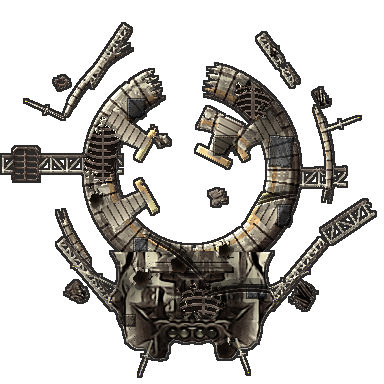
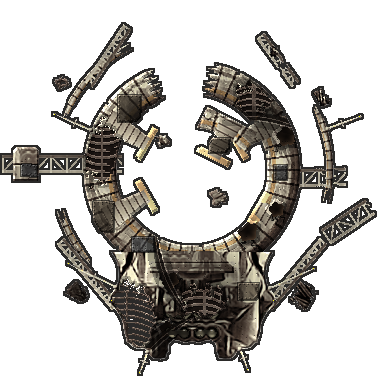
The Purifier escorts round 5c: masts rooted on the hull, broad engine sterns, straight carrier thrusters
- Every mast, whip, dish, spike and fin now starts on a hull edge pixel (masts slid along their direction onto the
  hull's outline, taken before any mast goes on; the edge dressing only on solid stretches of that outline), with
  a small round mount, and masts / dressing are kept out of the battle damage (no chipped-off roots).
- Frigate, destroyer, cruiser and troop transport end in a broad flared engine block (the aft rows of a wide stock
  hull with its nozzles and thruster marks, upper corners cut at an angle) wider than the hull ahead: 20 / 20 / 40 /
  53 thruster px (the troop transport had 2).
- The banana carrier unchanged except for a straight engine block over its stern, so its thrusters point straight
  aft instead of along the bend.

Checks: in-game screenshots (headless Chromium, ANGLE/Vulkan), test:fast 439 files / 4564 tests passed, repin
--check 0 changes; detail metric: every escort above the stock median.

Claude-Session: https://claude.ai/code/session_0163BYLbDKYohHLP1KWpaU5H

diff --git a/game/scripts/purifier-ships.py b/game/scripts/purifier-ships.py
@@ -20,20 +20,24 @@ Python 3 with numpy and Pillow only. Deterministic (fixed seeds per output).
 
 Per output frame (bow up, as the stock frames; square canvas with a margin for the masts):
 1. Assembly, at SS x the output resolution: whole stock hulls layered back to front (the hidden ones' engine marks
-   dropped: thrusters only where open space lies aft), each casting a soft contact shadow on what is below; the
-   stock pieces carry their levelled shading, the AncientHelpers ones their native colour, their lights as a glow
-   channel and their thruster (pure blue) / light (pure yellow) marker pixels as points, mapped through each
-   placement. The escorts are long and lean, their hulls meshed end to end: a frigate of a needle bow hull run into
-   a longer main hull; a destroyer of a needle bow, a long main hull and a slim engine hull; a cruiser of a pointed
-   bow hull, a broad main hull and a tapering stern hull; the capital ship, the longest, of a needle bow, two heavy
-   hulls and a wide engine hull with two slim hulls along its midsection as sponsons; a troop transport of a slim
-   bow hull run into the troop hull; and the carrier of three hulls end to end with the angled flight deck (landing
-   lanes, chevrons, landing lights, hangar lifts) fused along its port flank, the whole bent into a banana curve
-   (bend()). Then masts and the edge dressing: whips and sensor masts (single and in
-   fanned clusters), short spikes, small dishes on stalks, fins, small turrets, vents and pipes planted round the
-   outline pointing outward. Some tips and beads (at most 18 per frame, under the scan cap of 20) are pure-yellow
-   nav-light markers, so they blink at runtime as the planet destroyer's own spike lights do. The dock and outpost:
-   the Shakturi station bodies, the cradle ring and clamp arms, trusses and drifting debris, with masts.
+   dropped: thrusters only where open space lies aft), each casting a soft contact shadow on what is below; the stock
+   pieces carry their levelled shading, the AncientHelpers ones their native colour, their lights as a glow channel
+   and their thruster (pure blue) / light (pure yellow) marker pixels as points, mapped through each placement. The
+   escorts are long and lean, their hulls meshed end to end: a frigate of a needle bow hull run into a longer main
+   hull; a destroyer of a needle bow, a long main hull and a slim engine hull; a cruiser of a pointed bow hull, a
+   broad main hull and a tapering stern hull; the capital ship, the longest, of a needle bow, two heavy hulls and a
+   wide engine hull with two slim hulls along its midsection as sponsons; a troop transport of a slim bow hull run
+   into the troop hull; the four smaller ones each end in a broad flared engine block (the aft rows of a wide stock
+   hull with its nozzles, stern(), its upper corners cut at an angle) wider than the hull ahead; and the carrier of
+   three hulls end to end with the angled flight deck (landing lanes, chevrons, landing lights, hangar lifts) fused
+   along its port flank, the whole bent into a banana curve (bend()), a straight engine block fused over its stern so
+   the thrusters point straight aft. Then masts and the edge dressing: whips and sensor masts (single and in fanned
+   clusters), short spikes, small dishes on stalks, fins, small turrets, vents and pipes planted round the outline
+   pointing outward, every one rooted on a hull edge pixel (masts are slid along their direction onto the hull's
+   outline, taken before any mast goes on) with a small mount, and kept out of the battle damage. Some tips and beads
+   (at most 18 per frame, under the scan cap of 20) are pure-yellow nav-light markers, so they blink at runtime as
+   the planet destroyer's own spike lights do. The dock and outpost: the Shakturi station bodies, the cradle ring and
+   clamp arms, trusses and drifting debris, with masts.
 2. Paint: the stock AncientHelpers pieces keep their own colour at the new value (a little toward the destroyer's
    ramp); everything else is gradient-mapped onto the planet destroyer's metal ramp (the median colour of its pixels
    per luminance band: silver, champagne, warm dark steel, a touch warmed as its champagne plates); guns in its dark
@@ -1220,8 +1224,12 @@ def build(root, name, rng):
         """Break the outline up: walk the hull edge and plant, pointing outward (jittered), whips and sensor masts
         (some in fanned clusters, a few lit), short spikes, small dishes on stalks, small fins, turrets, vents and
         pipes poking out past the edge; none over the engines' thruster marks or within `avoid` (x, y, r layout)."""
-        solid = hm > 0.5
-        edge = solid & ~(shift(solid, SS, 0) & shift(solid, -SS, 0) & shift(solid, 0, SS) & shift(solid, 0, -SS))
+        solid = hull_mask(c)  # only the hull itself: nothing grows off another mast
+        hm = solid.astype(np.float64)
+        edge = solid & ~(shift(solid, 1, 0) & shift(solid, -1, 0) & shift(solid, 0, 1) & shift(solid, 0, -1))
+        edge &= depth_inside(solid, 3) >= 1
+        # only solid stretches of edge (not the tip of a thin spur): the pixel has hull all round within 2 px inward
+        edge &= fblur(solid.astype(np.float64), 2.0 * SS) > 0.3
         thr = [(mx, my) for (mx, my, k_) in c.marks if k_ == 1]
         ys, xs = np.nonzero(edge)
         keep = np.ones(len(ys), bool)
@@ -1246,12 +1254,13 @@ def build(root, name, rng):
                     blocked = True
             if blocked:
                 continue
-            ang = math.degrees(math.atan2(-nx_, -ny_)) + rng.uniform(-28, 28)
+            ang = math.degrees(math.atan2(-nx_, -ny_)) + rng.uniform(-18, 18)
             x, y = px / c.k - c.pad, py / c.k - c.pad
             kind = rng.choice(['whip', 'whip', 'whip', 'cluster', 'spike', 'spike', 'dish', 'fin', 'turret', 'vent', 'pipe'])
 
             def plant(piece, out, a, **k):
                 th = math.radians(a)
+                k.setdefault('mat', 'thin')
                 c.put(piece, x - math.sin(th) * out, y - math.cos(th) * out, rot=a, shadow=0.25, **k)
 
             if kind in ('whip', 'cluster'):
@@ -1261,22 +1270,26 @@ def build(root, name, rng):
                     on = lit > 0 and rng.random() < 0.35
                     lit -= int(on)
                     plant(antenna(ln, w=rng.uniform(1.4, 2.2), bars=(rng.uniform(0.3, 0.7),) if ln > 18 * k else (),
-                                  rings=(0.6,), light=on), ln / 2 - 1, a)
+                                  rings=(0.6,), light=on), ln / 2 - 1.5, a)
+                mount(c, x, y, 1.5 + 0.5 * (kind == 'cluster'))
             elif kind == 'spike':
                 ln = int(k * rng.uniform(6, 14))
-                plant(antenna(ln, w=3.2 * k, bars=(), rings=(0.5,), light=False), ln / 2 - 1, ang)
+                plant(antenna(ln, w=3.2 * k, bars=(), rings=(0.5,), light=False), ln / 2 - 1.5, ang)
+                mount(c, x, y, 1.6)
             elif kind == 'dish':
                 ln = int(k * rng.uniform(6, 12))
-                plant(antenna(ln, w=2.0, bars=(), rings=(), light=False), ln / 2, ang)
-                plant(dish(k * rng.uniform(3.5, 5.5)), ln, ang, marks=False)
+                plant(antenna(ln, w=2.0, bars=(), rings=(), light=False), ln / 2 - 1.5, ang)
+                plant(dish(k * rng.uniform(3.5, 5.5)), ln - 1.5, ang, marks=False)
+                mount(c, x, y, 1.6)
             elif kind == 'fin':
-                plant(plate(max(3, int(k * rng.uniform(4, 7))), int(k * rng.uniform(9, 16)), chamfer=0.6, taper=0.6, seams=()), 3 * k, ang,
+                fh = int(k * rng.uniform(9, 16))
+                plant(plate(max(3, int(k * rng.uniform(4, 7))), fh, chamfer=0.6, taper=0.6, seams=()), fh / 2 - 2, ang,
                       edge=0.8)
             elif kind == 'turret':
-                plant(turret(k * rng.uniform(3.5, 5.5)), 1.5 * k, ang, marks=False, edge=0.6)
+                plant(turret(k * rng.uniform(3.5, 5.5)), 0.5, ang, marks=False, edge=0.6)
             else:
                 g = greeble('vent' if kind == 'vent' else 'pipe', SS, rng)
-                plant(g, 2, ang + 90 if kind == 'pipe' else ang, marks=False, edge=0.8)
+                plant(g, 1, ang + 90 if kind == 'pipe' else ang, marks=False, edge=0.8)
 
     def greebles(c, hm, n, avoid=None):
         """Small detail scattered over the hull (vents, hatches, small domes, pipe runs, rivet rows), crisp."""
@@ -1292,14 +1305,68 @@ def build(root, name, rng):
             c.put(g, px / c.k - c.pad, py / c.k - c.pad, 1.0, rot=int(rng.choice([0, 90, 180, 270])), shadow=0.4, clip=hm,
                   edge=0.8, marks=False)
 
+    def hull_mask(c):
+        """The hull as it stands before any mast or dressing goes on (taken at the first call): masts root on it."""
+        if getattr(c, 'hullm', None) is None:
+            c.hullm = c.A > 0.5
+        return c.hullm
+
+    def root_on_hull(c, x, y, ang, reach=40):
+        """Where a mast pointing `ang` leaves the hull near (x, y) (layout px): from inside, the last hull pixel
+        outward along it; from outside, the first hull pixel back along it; None if there is no hull within reach."""
+        hm = hull_mask(c)
+        th = math.radians(ang)
+        ux, uy = -math.sin(th), -math.cos(th)
+        inside = lambda px, py: (0 <= int(py) < c.h and 0 <= int(px) < c.w and hm[int(py), int(px)])  # noqa: E731
+        px, py = (x + c.pad) * c.k, (y + c.pad) * c.k
+        step = 0.5
+        if inside(px, py):
+            while inside(px + ux * step, py + uy * step):
+                px, py = px + ux * step, py + uy * step
+        else:
+            for _ in range(int(reach * c.k / step)):
+                px, py = px - ux * step, py - uy * step
+                if inside(px, py):
+                    break
+            else:
+                return None
+        return px / c.k - c.pad, py / c.k - c.pad
+
+    def mount(c, x, y, r):
+        """The small round base where a mast meets the hull."""
+        c.put(dome(r), x, y, shadow=0.3, marks=False, mat='thin')
+
     def mast(c, x, y, length, ang, **k):
-        """An antenna rooted at (x, y), `ang` degrees from straight ahead (positive: to port; past 90: swept back)."""
+        """An antenna pointing `ang` degrees from straight ahead (positive: to port; past 90: swept back), rooted on
+        the hull edge nearest (x, y) along that direction, on a small mount."""
+        r = root_on_hull(c, x, y, ang)
+        if r is None:
+            return
+        x, y = r
         th = math.radians(ang)
         length = int(length * (1.3 if name.startswith('base') else 0.8))  # the escorts' hulls are at half scale
         k.setdefault('w', 2.4 if name.startswith('base') else 1.8)
-        c.put(antenna(length, **k), x - math.sin(th) * length / 2, y - math.cos(th) * length / 2, rot=ang, shadow=0.25)
+        sink = 1.5
+        c.put(antenna(length, **k), x - math.sin(th) * (length / 2 - sink), y - math.cos(th) * (length / 2 - sink), rot=ang,
+              shadow=0.25, mat='thin')
+        mount(c, x, y, 2.6 if name.startswith('base') else 1.9)
 
     H = lambda fam, f, **k: Piece.load(root, f, kit=fam, **k)  # noqa: E731  # a whole stock hull
+
+    def stern(c, fam, f, rows, x, scale=0.5, top=0.5):
+        """A broad engine block: the aft `rows` px of a stock hull (its nozzles and thruster marks), its upper corners
+        cut away at an angle (a flared section, `top` of its width at the top edge, full width halfway down), fused on
+        at the stern so it reaches a little past the hull's last pixel there: wider than the hull ahead of it."""
+        path = os.path.join(root, '..', fam, f + '.png')
+        bb = Image.open(path).getbbox()
+        src = Piece.load(root, f, (bb[0], bb[3] - rows, bb[2], bb[3]), kit=fam)
+        h_, w_ = src.A.shape
+        yy, xx = np.mgrid[0:h_, 0:w_].astype(np.float64) + 0.5
+        half = w_ / 2 * (top + (1 - top) * np.clip(yy / (h_ * 0.5), 0, 1))
+        pc = Piece(src.L, src.A * (np.abs(xx - w_ / 2) <= half), src.G, src.mats, src.marks)
+        col = c.A[:, int((x - 12 + c.pad) * c.k):int((x + 12 + c.pad) * c.k)] > 0.5
+        last = np.nonzero(col.any(1))[0].max() / c.k - c.pad
+        c.put(pc, x, last + 3 - h_ * scale / 2, scale, shadow=0.55)
 
     def dress(c, n, avoid=()):
         edge_dress(c, (c.A > 0.5).astype(np.float64), n, lights=18, avoid=avoid, k=0.6)
@@ -1309,6 +1376,7 @@ def build(root, name, rng):
         c = Canvas(190, pad=20, z=1.25)
         c.put(H('family14', 'frigate'), 95, 120, 0.5, shadow=0)
         c.put(H('family25', 'frigate'), 95, 52, 0.5, shadow=0.55)
+        stern(c, 'family23', 'destroyer', 64, 95, 0.55, top=0.4)
         mast(c, 95, 14, 18, 0, beads=(0.5,))
         mast(c, 72, 140, 22, 70)
         mast(c, 118, 150, 20, -110)
@@ -1320,6 +1388,7 @@ def build(root, name, rng):
         c.put(H('family7', 'destroyer'), 130, 206, 0.5, shadow=0)
         c.put(H('family24', 'destroyer'), 130, 132, 0.5, shadow=0.5)
         c.put(H('family25', 'destroyer'), 130, 54, 0.5, shadow=0.55)
+        stern(c, 'family22', 'capitalship', 70, 130, 0.62)
         mast(c, 130, 12, 20, 0, beads=(0.5,))
         mast(c, 106, 120, 26, 60)
         mast(c, 154, 170, 24, -120)
@@ -1331,6 +1400,7 @@ def build(root, name, rng):
         c.put(H('family14', 'cruiser'), 160, 250, 0.5, shadow=0)
         c.put(H('family22', 'cruiser'), 160, 152, 0.5, shadow=0.5)
         c.put(H('family25', 'cruiser'), 160, 62, 0.5, shadow=0.55)
+        stern(c, 'family11', 'capitalship', 74, 160, 0.62)
         mast(c, 160, 14, 24, 0, beads=(0.5,))
         mast(c, 124, 150, 30, 64)
         mast(c, 196, 150, 30, -64)
@@ -1366,6 +1436,13 @@ def build(root, name, rng):
         c.put(H('family14', 'destroyer'), 104, 70, 0.4, shadow=0.4)
         c.put(H('family12', 'carrier'), 104, 136, 0.5, shadow=0.6)
         bend(c, 150, 100, 138)
+        # the bend turned the stern nozzles sideways: a straight engine section (the same stern hull's nozzles) fused
+        # on over them, pointing straight aft, carries the thrusters
+        c.marks = [m_ for m_ in c.marks if m_[2] != 1]
+        rows_ = np.nonzero((c.A > 0.5).any(1))[0]
+        low = (c.A[rows_.max() - int(6 * c.k):rows_.max() + 1] > 0.5).any(0)
+        sx_ = np.nonzero(low)[0].mean() / c.k - c.pad
+        stern(c, 'family25', 'carrier', 46, sx_, 0.46, top=0.7)
         mast(c, 124, 30, 24, -10, beads=(0.5,))
         mast(c, 132, 120, 30, -62)
         mast(c, 140, 232, 26, -140)
@@ -1376,6 +1453,7 @@ def build(root, name, rng):
         c = Canvas(210, pad=20, z=1.25)
         c.put(H('family21', 'trooptransport'), 105, 138, 0.5, shadow=0)
         c.put(H('family25', 'trooptransport'), 105, 56, 0.5, shadow=0.55)
+        stern(c, 'family9', 'capitalship', 62, 105, 0.62, top=0.4)
         mast(c, 105, 12, 18, 0, beads=(0.5,))
         mast(c, 78, 140, 22, 70)
         mast(c, 132, 150, 22, -110)
@@ -1422,8 +1500,8 @@ def build(root, name, rng):
                               (310, 86, 22, 210), (50, 70, 20, 300), (262, 40, 14, 80), (196, 104, 12, 140)):
             c.put(debris(rng, root, sz), x, y, rot=r, shadow=0, marks=False, gain=0.85)
         # masts with lights off the forge block and the ring (as the Purifier's spikes)
-        for (x, y, ln, a) in ((cx - 70, cy + 120, 44, 64), (cx + 70, cy + 122, 40, -66), (cx - 40, cy + 170, 30, 160),
-                              (cx + 44, cy + 168, 30, -160), (cx - 128, cy - 52, 34, 66), (cx + 132, cy - 40, 30, -70)):
+        for (x, y, ln, a) in ((cx - 70, cy + 120, 44, 64), (cx + 70, cy + 122, 40, -66), (cx - 40, cy + 170, 20, 160),
+                              (cx + 44, cy + 168, 20, -160), (cx - 128, cy - 52, 34, 66), (cx + 132, cy - 40, 30, -70)):
             mast(c, x, y, ln, a)
         return c
     raise KeyError(name)
@@ -1476,7 +1554,7 @@ def finish(name, c, xs, cols, rng):
     mk = np.zeros((h, w), bool)
     for (x, y) in marks:
         mk[y, x] = True
-    protect = dilate(mk, 3)
+    protect = dilate(mk, 3) | dilate(M['thin'] > 0.4, 2)  # the markers and the masts / dressing (never chipped off)
     dm = Damage(name, out, alpha, v, M, protect, rng)
     dm.ramp = (xs, cols)
     npatch, nsc, nmiss, nbr, ncr, ngo, nmel, nch = WEAR[name]

diff --git a/game/docs/release-notes.md b/game/docs/release-notes.md
@@ -4,7 +4,7 @@ Notes for the next release, to copy into the GitHub release (RELEASING.md step 2
 
 ## Unreleased
 
-- **The Purifier: war-forged escorts and a ruined dock.** The Purifier's escorts and guards (escort, frigate, destroyer, cruiser, capital ship, carrier, troop transport) have new art in the planet destroyer's own colours (silver and champagne plating, pale-gold and copper trim, dark steel machinery), so they read as its fleet. Each is two to four existing hulls fused into one ship, keeping their detailed paintwork, so none looks like an existing race's ship. They are long, lean warships with their hulls joined end to end and tapering bows, larger on screen than the ordinary warships of their class (the capital ship the longest, with heavy sponsons amidships), and the carrier is a banana-curved hull with its landing deck (landing lanes, landing lights, hangar lifts) running along the curve. Like the destroyer's spikes, thin antennas, whips, small dishes and fins stick out all round them, with blinking lights on some of the tips. They are battered by ages of fighting: missing hull plates showing the ribbed frame inside, gouges, impact craters, scorch, melted edges, gunmetal and steel plates welded over old holes and chipped edges. Brighter edges, darker recesses and a thin dark outline keep them readable at normal zoom and against nebulae. Its dock is now a half-ruined shipyard in the same metal, with masts and lights of its own: an empty cradle ring where the Purifier slept, clamp arms reaching in (one snapped off and drifting), broken gantries and scaffold arms, and debris floating around it; its other stations match. The planet destroyer itself keeps its look, the biggest ship and the only one with a glowing core, so it still stands out as the one unbroken weapon. Looks only: nothing in the game rules changes.
+- **The Purifier: war-forged escorts and a ruined dock.** The Purifier's escorts and guards (escort, frigate, destroyer, cruiser, capital ship, carrier, troop transport) have new art in the planet destroyer's own colours (silver and champagne plating, pale-gold and copper trim, dark steel machinery), so they read as its fleet. Each is two to four existing hulls fused into one ship, keeping their detailed paintwork, so none looks like an existing race's ship. They are long, lean warships with their hulls joined end to end, tapering bows and broad flared engine sections, larger on screen than the ordinary warships of their class (the capital ship the longest, with heavy sponsons amidships), and the carrier is a banana-curved hull with its landing deck (landing lanes, landing lights, hangar lifts) running along the curve. Like the destroyer's spikes, thin antennas, whips, small dishes and fins stick out all round them, each mounted on the hull, with blinking lights on some of the tips. They are battered by ages of fighting: missing hull plates showing the ribbed frame inside, gouges, impact craters, scorch, melted edges, gunmetal and steel plates welded over old holes and chipped edges. Brighter edges, darker recesses and a thin dark outline keep them readable at normal zoom and against nebulae. Its dock is now a half-ruined shipyard in the same metal, with masts and lights of its own: an empty cradle ring where the Purifier slept, clamp arms reaching in (one snapped off and drifting), broken gantries and scaffold arms, and debris floating around it; its other stations match. The planet destroyer itself keeps its look, the biggest ship and the only one with a glowing core, so it still stands out as the one unbroken weapon. Looks only: nothing in the game rules changes.
 - **Mothball slot: left-click opens the port list.** On the selection panel, clicking Mothball now lists your space ports (best one first, marked ★) instead of sending the force straight to the best port, as the Fleets and Ships screens already did. Reactivate and Cancel still act at once.
 - **Crisis interactions: reputation, opportunists, the council, Purifier refugees.** The loose crisis factions (the Purifier, the Cult, the Hive, Generation Ships, and the Grey Tide, Ghost Armada, Dark Farms, Robot Mutiny, Hollow Fleet and Probe Swarm) now draw reactions from the rest of the galaxy, with no new screens: (1) *Reputation* (needs the Reputation add-on): an empire that fights a crisis (kills its ships, loses ships to it, keeps shooting at it) earns a small, once-only +3 regard from every empire that has met it and is not at war with it; an empire that sits a crisis out for two years (once the faction has hurt someone) while it is within three sectors of its colonies loses 2 with the same empires; both fade by 1 a year, and a human empire is told. (2) *Opportunists*: when a crisis hits an empire (a colony risen to the faction, invaded or destroyed) and a rival that was not already at war with it declares war on it within 180 days, both empires get a message ("X takes advantage of the Cult rising in Y"), the whole galaxy gets a news line (so the event log has it), and, with Reputation on, the victim's regard for the rival drops by 3. It only reports what the stock AI does. (3) *The Galactic Council* (and the Interstellar Diet) can table, through its existing motion kinds, declaring a loose crisis faction a threat to the galaxy (the joint defence; once passed, AI members that have met a non-pirate faction declare war on it, a joint war), sanctioning it (non-pirate factions), and condemning an empire seen helping it (the exposed waker of the Purifier, or a treaty partner of the faction). Only in a game with a council. (4) *Purifier refugees*: when the Purifier destroys a populated colony, 20% of each race survives and flees to the nearest colonies (the owner's own first, then neighbours not at war with it): as ordinary refugee convoys when Refugees & Demographics is on, otherwise at once. Receiving colonies keep the people as extra population and take a crowding hit on approval (up to -4, fading over 18 months).
 - **Void Whale: the Leviathan's fins and flukes join its body cleanly.** The dark notch and the black strip along the body's edge under the pectoral fins are gone (the edge there was filled with keyed-out background), and the hard straight seam where each fin met the body is now a soft join: the flank's hide runs into the fin's base and swells over it, matching in texture, colour, lighting and weathering. The fins carry a deeper strip of hide under their roots, so no gap or dark sliver opens as they row forward and back, and the flukes' stalk now matches the body's shading where they join and stays inside the stalk through the whole tail stroke. The harpoons and wounds are unchanged. Art only (regenerated by scripts/leviathan-parts.py).
